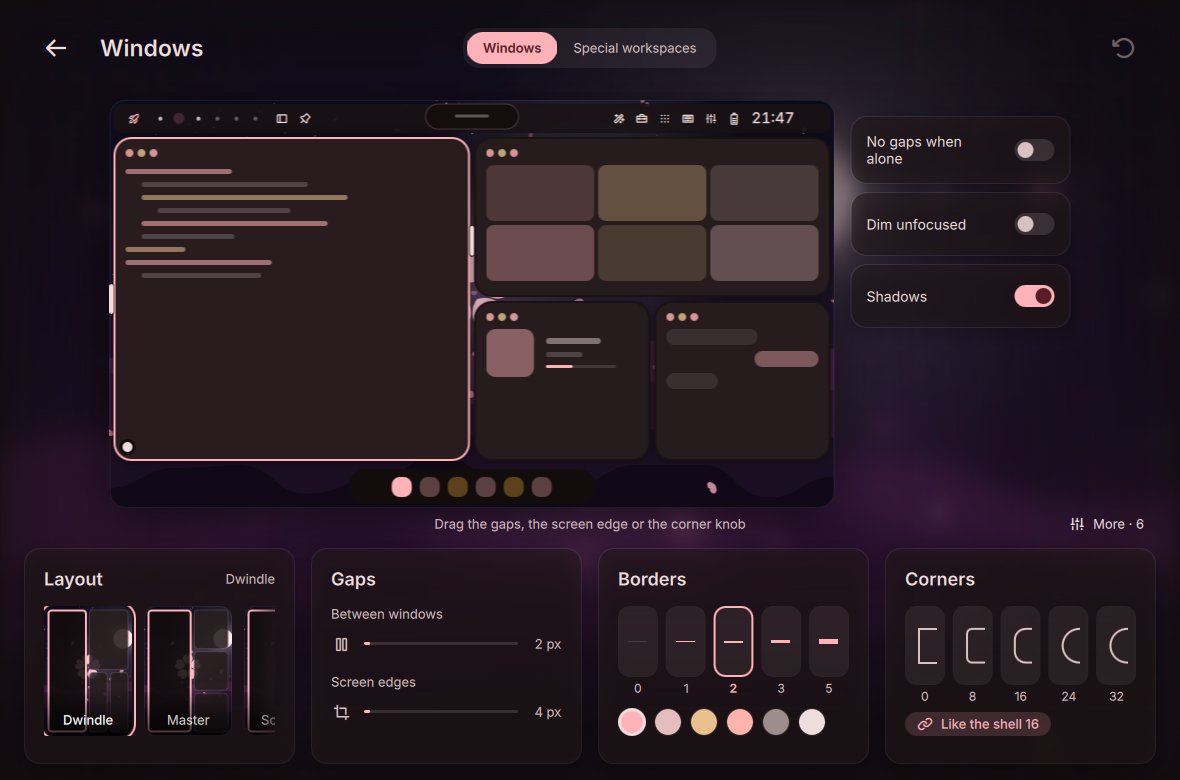
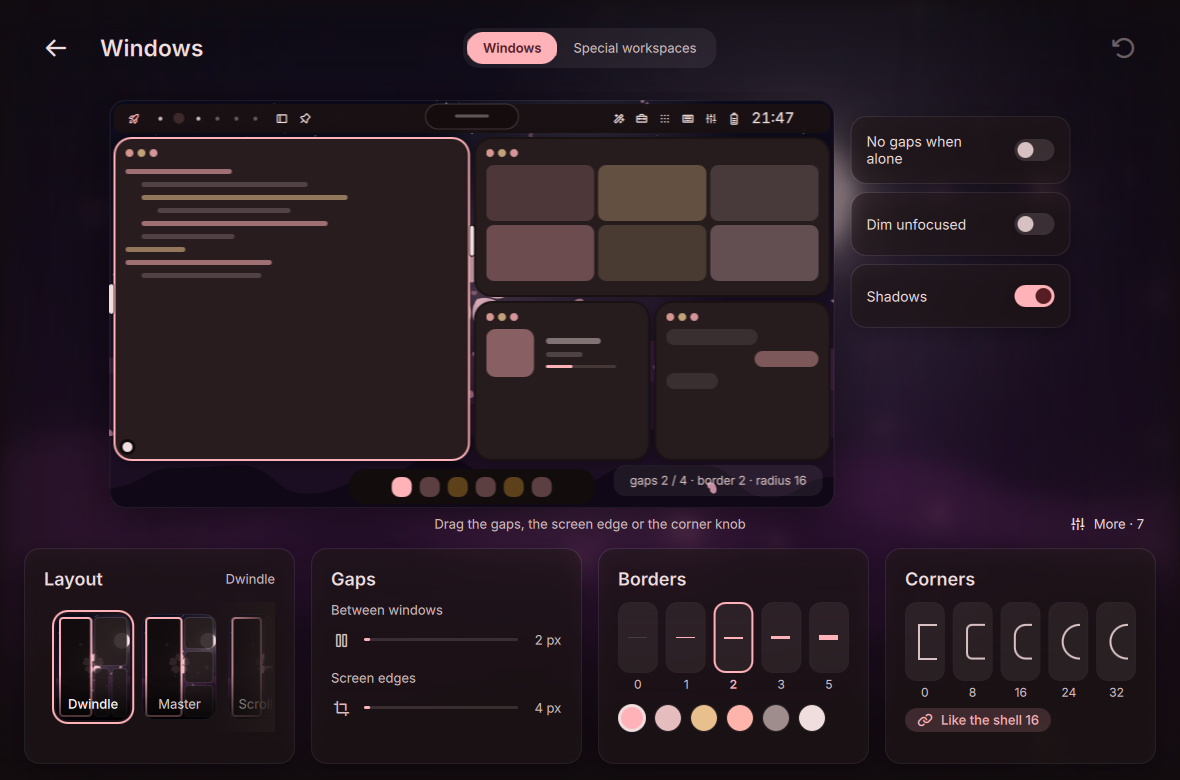
feat(settings): Special workspaces as a list page; Windows and Power keep their raw rows in More
Special workspaces use the list form without a band: the workspaces
list takes the row, the switch beside it. The Windows stage carries a
readout of the numbers it draws and, on a compositor that lacks some of
its settings, the note of what it hides (a fitted page has no room for
the note under its cards); the unfocused border colour is a row of the
More sheet. Power keeps the raw idle listeners as a More row beside the
timeline.

diff --git a/modules/settings/stages/WindowsStage.qml b/modules/settings/stages/WindowsStage.qml
@@ -8,6 +8,8 @@ import qs.modules.components.kit
 import qs.modules.settings.store
 import "WindowTiles.js" as Tiles
 import "../controls/ColorRoleModel.js" as ColorModel
+import "../CompositorGate.js" as CompositorGate
+import "../schema/windows.js" as WindowsSchema
 
 // Stage of the Windows page: your screen (ScreenMini, without its faux
 // windows) tiled by the compositor's layout at real pixels: the gaps
@@ -77,6 +79,11 @@ Stage {
     }
 
     stageHeight: Space.px(300)
+
+    // On a compositor that lacks some of these settings, the stage says how
+    // many rows it hides and where they work (a fitted page has no room
+    // for the scrolling page's note under its cards).
+    readonly property var gated: CompositorGate.hiddenBy(WindowsSchema.category.sections, YozdService.compositorName)
 
     ScreenMini {
         id: mini
@@ -155,6 +162,52 @@ Stage {
                 map: (dx, dy) => Tiles.roundingFromDrag(cornerGrip.start, dx, -dy)
                 keys: ["compositor.rounding", "windows.corners"]
             }
+        }
+    }
+
+    Mark {
+        objectName: "compositorOnlyNote"
+        readonly property string text: gateText.text
+        visible: stage.gated.count > 0
+        x: Space.m
+        anchors.bottom: parent.bottom
+        anchors.bottomMargin: Space.m
+        width: Math.min(parent.width - Space.m * 2, gateText.implicitWidth + Space.l * 2)
+        height: gateText.height + Space.s * 2
+        radius: Look.radius("chip", height)
+        color: Look.raisedFill(false)
+        border.width: Space.hairline
+        border.color: Type.hairline
+        KitText {
+            id: gateText
+            x: Space.l
+            anchors.verticalCenter: parent.verticalCenter
+            width: Math.min(implicitWidth, stage.width - Space.m * 2 - Space.l * 2)
+            role: "caption"
+            color: Type.secondary
+            elide: Text.ElideRight
+            text: stage.gated.count > 0 ? I18n.tn("prefs.compositor_only.note", stage.gated.count).replace("%2", CompositorGate.describe(stage.gated.compositors)) : ""
+        }
+    }
+
+    // the numbers the picture is drawn with
+    Mark {
+        anchors.right: parent.right
+        anchors.bottom: parent.bottom
+        anchors.margins: Space.m
+        width: readout.implicitWidth + Space.l * 2
+        height: readout.implicitHeight + Space.s * 2
+        radius: Look.radius("chip", height)
+        color: Look.raisedFill(false)
+        border.width: Space.hairline
+        border.color: Type.hairline
+        KitText {
+            id: readout
+            objectName: "windowsReadout"
+            anchors.centerIn: parent
+            role: "caption"
+            color: Type.secondary
+            text: I18n.t("prefs.windows.preview.readout").replace("%1", Math.round(stage.shownGapsIn)).replace("%2", Math.round(stage.shownGapsOut)).replace("%3", Math.round(stage.border)).replace("%4", Math.round(stage.shownRounding))
         }
     }
 

diff --git a/modules/settings/schema/power.js b/modules/settings/schema/power.js
@@ -2,8 +2,8 @@
 
 // Power: the battery and power profile (the stage), battery saver, what
 // happens while you are away (one idle timeline) and around sleep (two
-// switches). The raw idle listeners and sleep commands are out of the
-// window (`yozakura config`). Entry format: see modules/settings/AGENTS.md.
+// switches). The raw idle listeners are in the More sheet; the lock and
+// sleep commands are out of the window (`yozakura config`). Entry format: see modules/settings/AGENTS.md.
 
 function command(key, label, description, placeholder, keywords) {
     return {
@@ -55,10 +55,18 @@ var category = {
                     "keywords": "idle away timeout dim lock screen off sleep suspend minutes timeline hypridle"
                 },
                 toggle("performance.batterySaver", "system.performance.battery_saver", "system.performance.battery_saver_desc", "battery saver power laptop unplugged visualizer cava wavy wallpaper border pulse"),
-                command("system.idle.general.lock_cmd", "settings.system.lock_command", "prefs.sys.lock_cmd.desc", "idle.lock_cmd", "lock screen command idle"),
+                command("system.idle.general.lock_cmd", "settings.system.lock_command", "prefs.sys.lock_cmd.desc", "idle.lock_cmd", "lock screen command idle")
+            ]
+        },
+        {
+            // the raw listeners (a command at a time), for what the timeline
+            // does not draw: in the More sheet
+            "id": "commands",
+            "title": "prefs.power.section.commands",
+            "entries": [
                 {
                     "key": "system.idle.listeners",
-                    "advanced": true,
+                    "part": true,
                     "type": "list",
                     "fields": [
                         {

diff --git a/modules/settings/schema/windows.js b/modules/settings/schema/windows.js
@@ -184,15 +184,7 @@ var category = {
                     "description": "prefs.windows.border_angle.desc",
                     "keywords": "gradient angle rotation border"
                 },
-                {
-                    "key": "compositor.inactiveBorderColor",
-                    "advanced": true,
-                    "type": "color-role",
-                    "gradient": true,
-                    "label": "prefs.windows.inactive_border",
-                    "description": "prefs.windows.inactive_border.desc",
-                    "keywords": "inactive unfocused border color gradient role palette alpha"
-                },
+
                 {
                     "key": "compositor.inactiveBorderAngle",
                     "advanced": true,
@@ -205,6 +197,20 @@ var category = {
                     "label": "prefs.windows.inactive_border_angle",
                     "description": "prefs.windows.inactive_border_angle.desc",
                     "keywords": "gradient angle inactive border"
+                }
+            ]
+        },
+        {
+            "id": "unfocused",
+            "title": "prefs.windows.section.more_borders",
+            "entries": [
+                {
+                    "key": "compositor.inactiveBorderColor",
+                    "type": "color-role",
+                    "gradient": true,
+                    "label": "prefs.windows.inactive_border",
+                    "description": "prefs.windows.inactive_border.desc",
+                    "keywords": "inactive unfocused border color gradient role palette alpha"
                 }
             ]
         },

diff --git a/modules/settings/schema/specials.js b/modules/settings/schema/specials.js
@@ -2,7 +2,8 @@
 
 // Special workspaces (Hyprland scratchpads): the list editor (templates,
 // name, icon, accent, toggle + send binds, apps, preload) and the runtime
-// options. Global like the keybinds: presets never carry them. Logic:
+// options, as a list page (form "list", no band: the list is the page).
+// Global like the keybinds: presets never carry them. Logic:
 // modules/specials/. Entry format: see modules/settings/AGENTS.md.
 
 var category = {
@@ -11,6 +12,14 @@ var category = {
     "title": "prefs.cat.specials",
     "description": "prefs.cat.specials.desc",
     "keywords": "special workspaces scratchpad scratchpads hidden workspace telegram discord chat music dev notes toggle send window apps preload",
+    "form": "list",
+    "row": [
+        {
+            "id": "list",
+            "weight": 3.2
+        },
+        "behaviour"
+    ],
     "sections": [
         {
             "id": "list",

diff --git a/tests/settings-fit.test.py b/tests/settings-fit.test.py
@@ -27,7 +27,7 @@ from PySide6.QtQuick import QQuickWindow  # noqa: E402,F401
 from PySide6.QtTest import QTest  # noqa: E402
 from settings_env import SettingsEnv  # noqa: E402
 
-CONVERTED = ["bar", "notch", "dock", "layout", "appearance", "icons-type", "notifications", "osd", "menus", "lockscreen", "windows", "power", "network", "bluetooth", "sound", "effects", "input"]
+CONVERTED = ["bar", "notch", "dock", "layout", "appearance", "icons-type", "notifications", "osd", "menus", "lockscreen", "windows", "power", "network", "bluetooth", "sound", "effects", "input", "specials"]
 MULTI = ('[{"id": "top", "edge": "top", "style": "classic", "groups": {"start": ["launcher"], "end": ["clock"]}},'
          ' {"id": "rail", "edge": "left", "style": "rail", "groups": {"start": ["launcher"], "end": ["power"]}}]')
 
